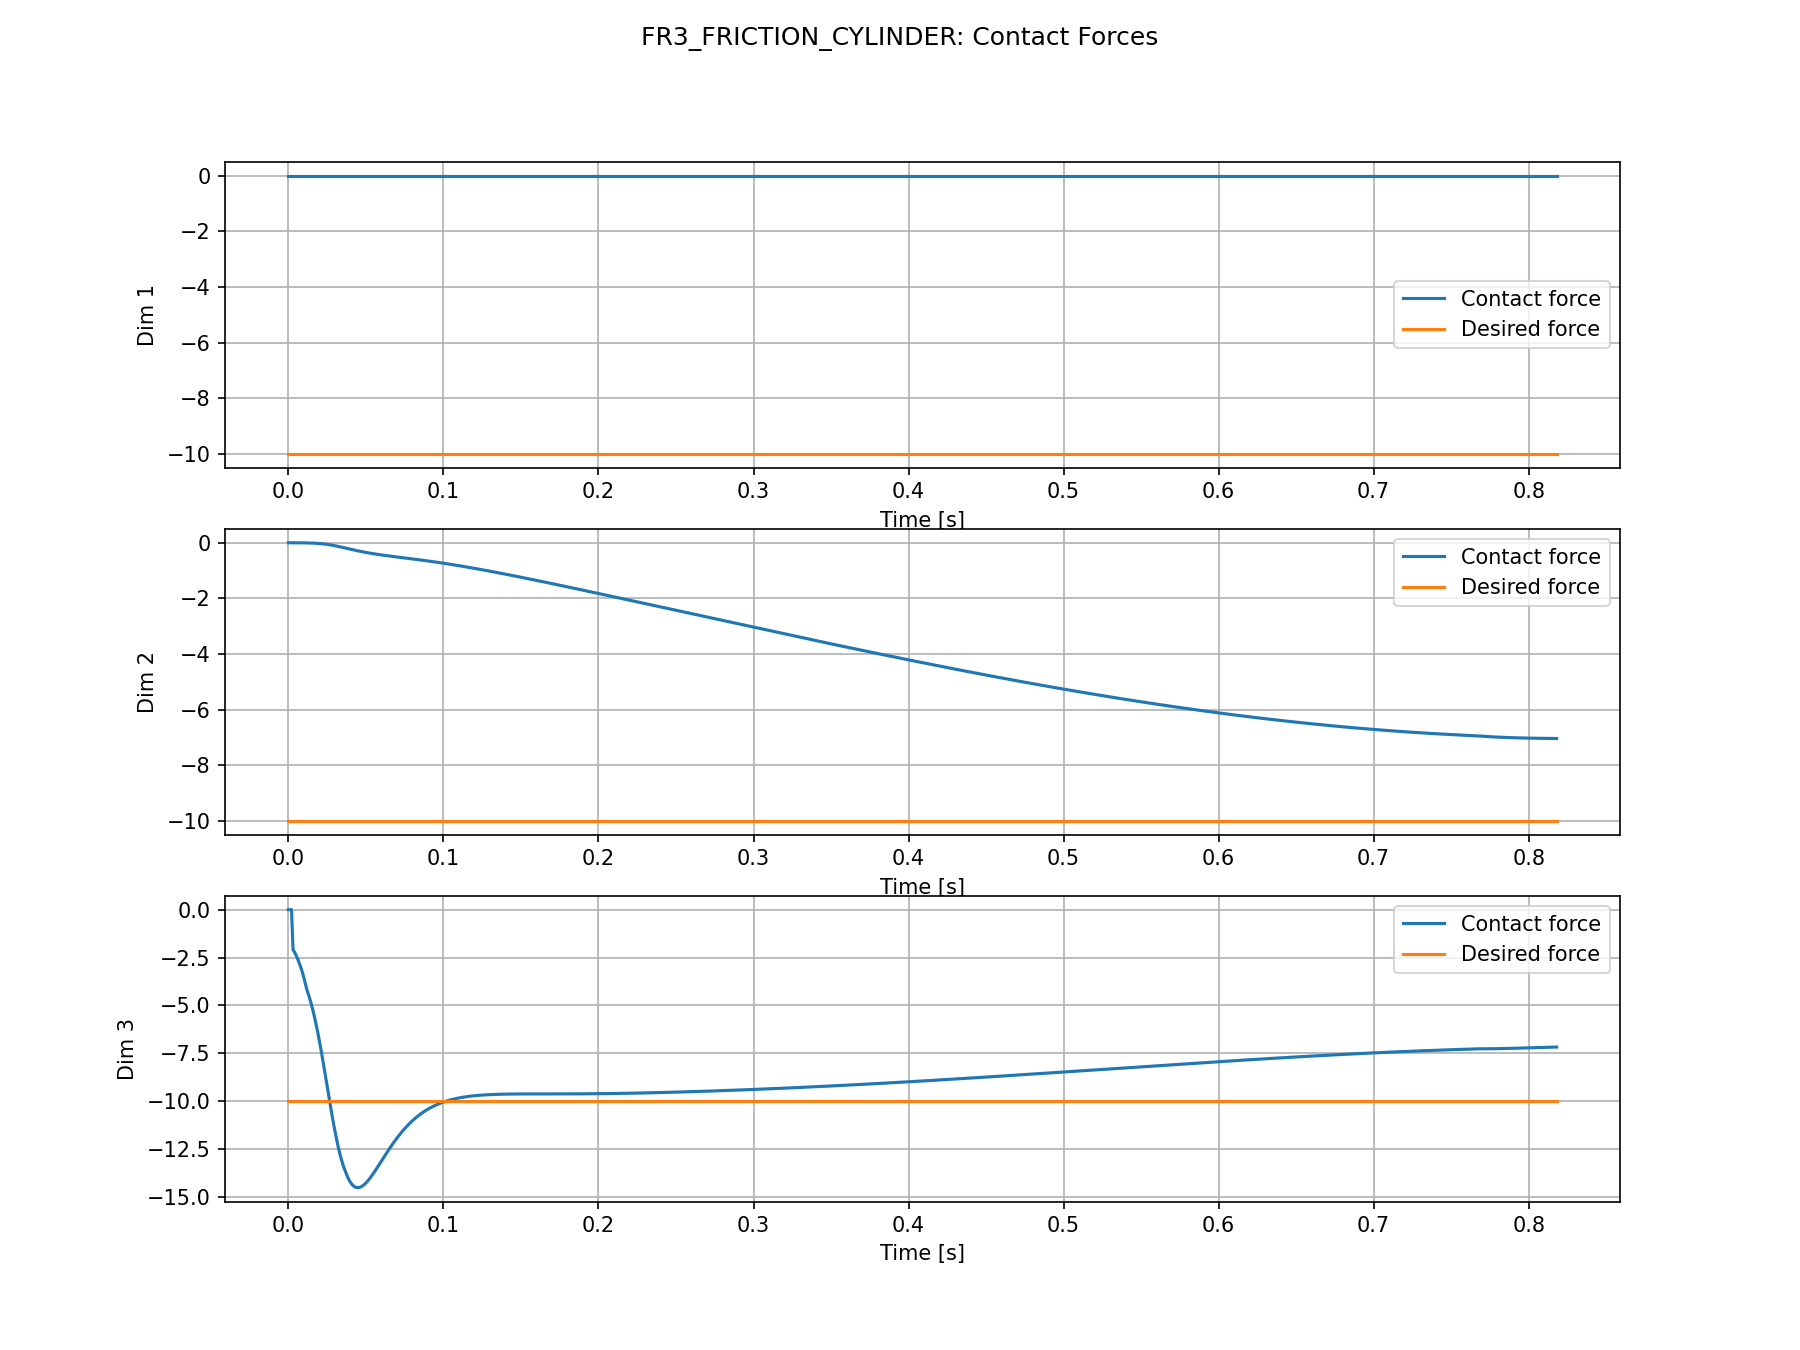
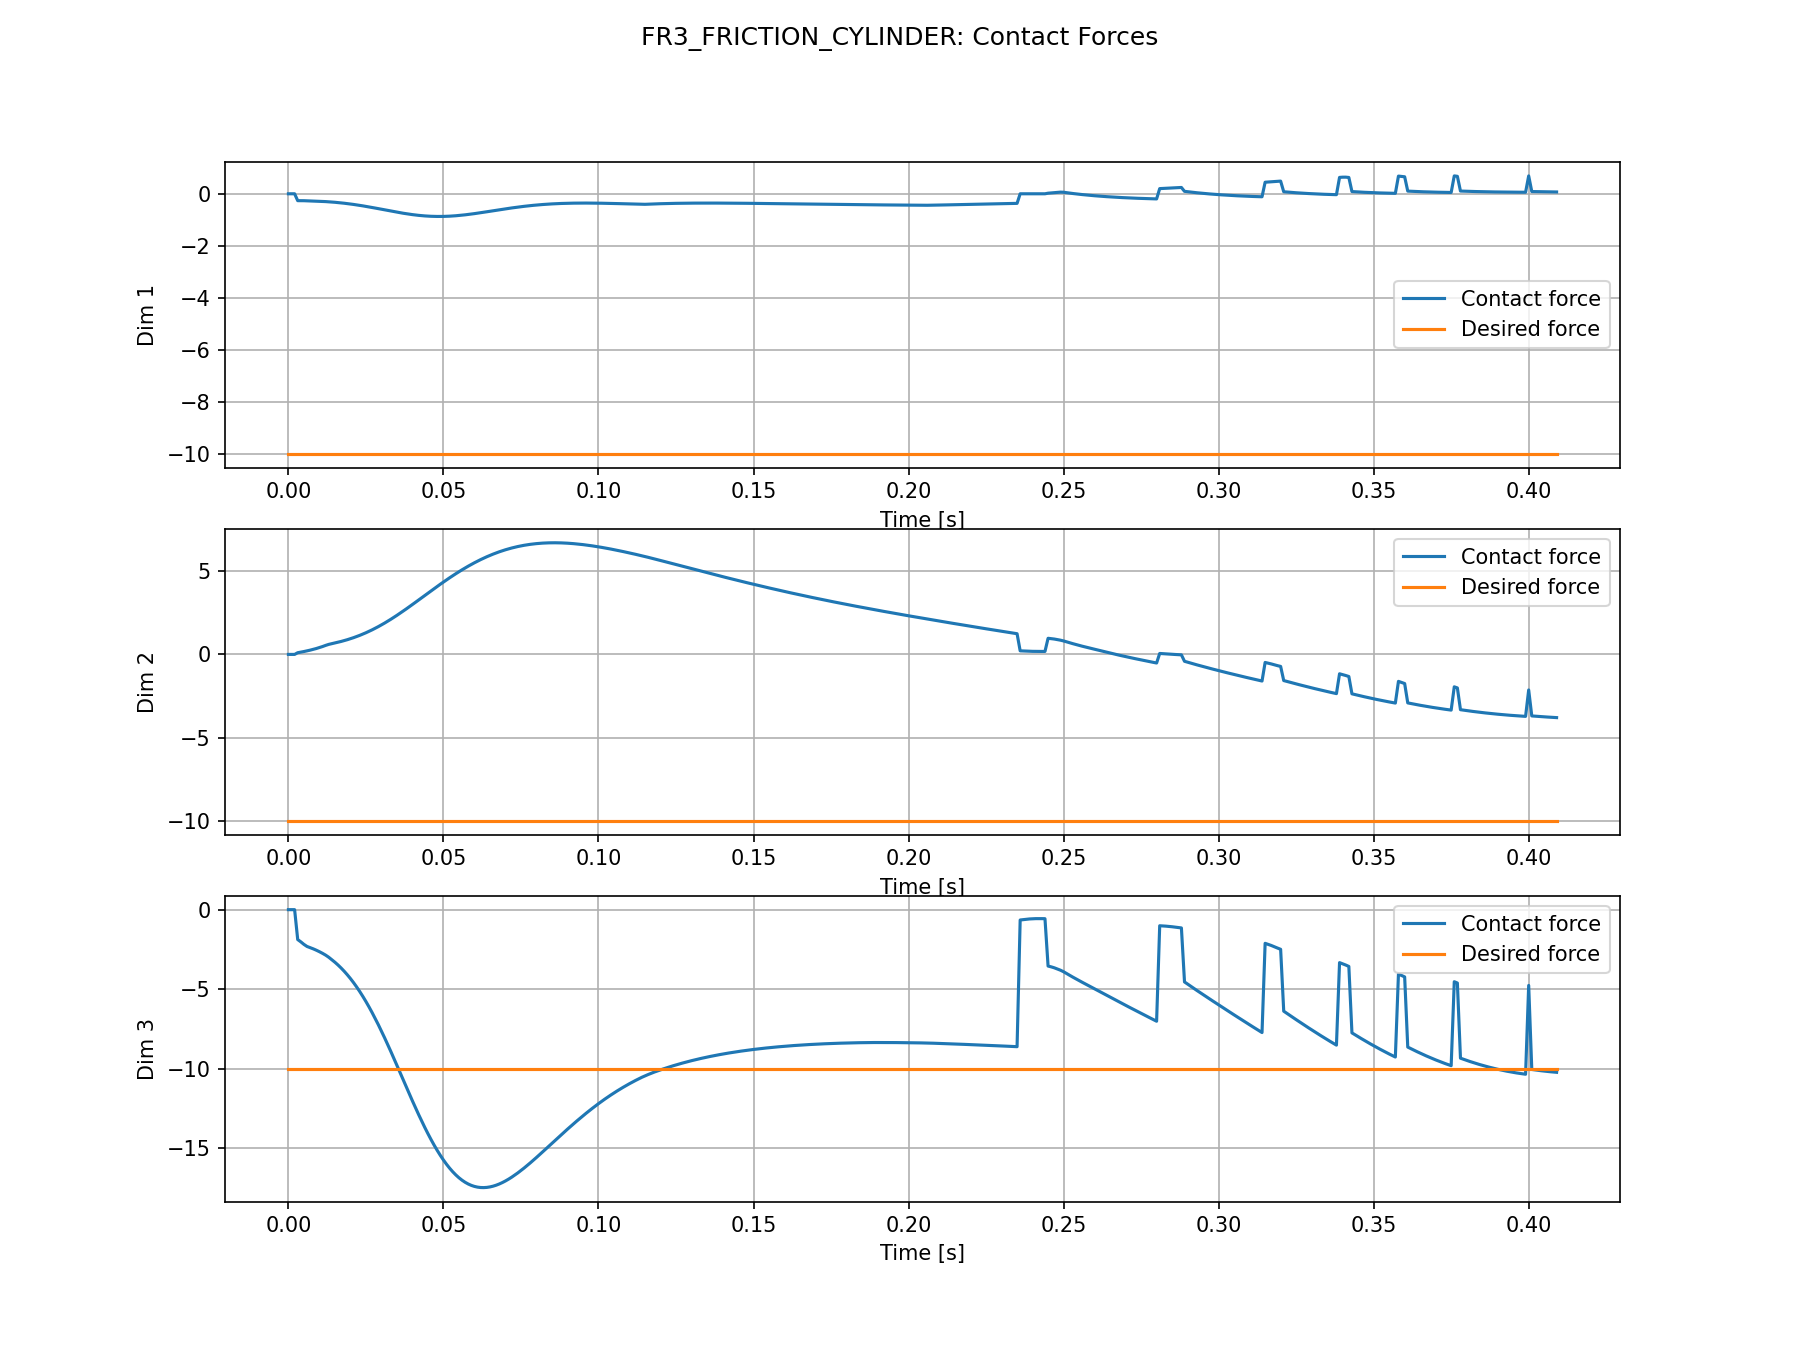
add cylinder compensation comparison

diff --git a/cylinder_experiments/compensation_comparison/plot_comparison.py b/cylinder_experiments/compensation_comparison/plot_comparison.py
@@ -1,0 +1,132 @@
+"""
+Compensation Term Ablation — Cylinder Surface Plot
+===================================================
+Reads .npz files produced by run_experiments.py and generates a signed
+force-error comparison plot (normal force projected onto cylinder surface).
+
+Usage:
+    python cylinder_experiments/compensation_comparison/plot_comparison.py \\
+        --data-dir cylinder_experiments/compensation_comparison/data/fr3_friction_cylinder \\
+        --plot-dir cylinder_experiments/compensation_comparison/plots/fr3_friction_cylinder
+"""
+import argparse
+import os
+
+import matplotlib.pyplot as plt
+import numpy as np
+
+try:
+    from tueplots import bundles
+    plt.rcParams.update(bundles.icml2024(usetex=False))
+except ImportError:
+    pass
+
+plt.rcParams.update({
+    "font.size": 10,
+    "axes.labelsize": 8,
+    "xtick.labelsize": 8,
+    "ytick.labelsize": 8,
+    "legend.fontsize": 8,
+})
+
+CONFIGS = [
+    {
+        "label":     "No contact force compensation",
+        "suffix":    "_no_contact",
+        "color":     "tab:orange",
+        "linestyle": "-",
+        "linewidth": 1.2,
+        "zorder":    2,
+    },
+    {
+        "label":     "No velocity term",
+        "suffix":    "_no_vel",
+        "color":     "tab:green",
+        "linestyle": "-",
+        "linewidth": 1.2,
+        "zorder":    2,
+    },
+    {
+        "label":     "No control force compensation",
+        "suffix":    "_no_ctrl",
+        "color":     "tab:red",
+        "linestyle": "-",
+        "linewidth": 1.2,
+        "zorder":    2,
+    },
+    {
+        "label":     "All compensations ON",
+        "suffix":    "_all",
+        "color":     "tab:blue",
+        "linestyle": "--",
+        "linewidth": 1.8,
+        "zorder":    3,
+    },
+]
+
+DT = 0.001
+
+
+def parse_args():
+    parser = argparse.ArgumentParser(
+        description="Plot cylinder force error comparison from saved .npz data"
+    )
+    parser.add_argument("--data-dir", required=True,
+                        help="Directory containing .npz data files")
+    parser.add_argument("--plot-dir", required=True,
+                        help="Directory to save the output plot")
+    parser.add_argument("--skip-seconds", type=float, default=1.0,
+                        help="Seconds to skip when computing avg/max |error|")
+    parser.add_argument("--plot-duration", type=float, default=None,
+                        help="Seconds of data to plot (default: all)")
+    return parser.parse_args()
+
+
+def main():
+    args = parse_args()
+    os.makedirs(args.plot_dir, exist_ok=True)
+
+    skip        = int(args.skip_seconds / DT)
+    max_samples = int(args.plot_duration / DT) if args.plot_duration else None
+
+    print(f"\n{'Config':<35s}  {'Avg |err| (N)':>14}  {'Max |err| (N)':>14}")
+    print("-" * 67)
+
+    fig, ax = plt.subplots()
+
+    for cfg in CONFIGS:
+        fpath = os.path.join(args.data_dir, f"data_0.0{cfg['suffix']}.npz")
+        if not os.path.exists(fpath):
+            print(f"[WARN] Missing {fpath} — skipping {cfg['label']}")
+            continue
+
+        d = np.load(fpath)
+        force_error = d["force_error"]
+        if max_samples is not None:
+            force_error = force_error[:max_samples]
+        t = np.arange(len(force_error)) * DT
+        n = len(force_error)
+        fe_sk   = force_error[skip:] if n > skip else force_error
+        avg_abs = np.mean(np.abs(fe_sk))
+        max_abs = np.max(np.abs(fe_sk))
+        print(f"{cfg['label']:<35s}  {avg_abs:>14.3f}  {max_abs:>14.3f}")
+
+        ax.plot(t, force_error,
+                color=cfg["color"], linestyle=cfg["linestyle"],
+                linewidth=cfg["linewidth"], zorder=cfg["zorder"],
+                label=cfg["label"])
+
+    print()
+    ax.axhline(0, color="black", linestyle="--", linewidth=0.8)
+    ax.set_xlabel("Time (s)")
+    ax.set_ylabel("Normal Force Error (N)")
+    ax.set_title("Cylinder Surface — Compensation Ablation")
+    ax.legend(loc="upper right")
+
+    out_path = os.path.join(args.plot_dir, "compensation_comparison.png")
+    fig.savefig(out_path, dpi=300)
+    print(f"[PLOT] Saved to: {out_path}")
+
+
+if __name__ == "__main__":
+    main()

diff --git a/cylinder_experiments/compensation_comparison/run_experiments.py b/cylinder_experiments/compensation_comparison/run_experiments.py
@@ -1,0 +1,85 @@
+"""
+Compensation Term Ablation — Cylinder Surface Data Collection
+=============================================================
+Runs run_approach_then_hybrid_mujoco.py four times (each time with one
+compensation term disabled) for the cylinder surface case.
+
+Usage:
+    python cylinder_experiments/compensation_comparison/run_experiments.py \\
+        --headless \\
+        --data-dir cylinder_experiments/compensation_comparison/data/fr3_friction_cylinder
+"""
+import argparse
+import os
+import subprocess
+import sys
+
+CONFIGS = [
+    {"label": "No contact force compensation", "flags": ["--no-contact-force-compensation"]},
+    {"label": "No velocity term",              "flags": ["--no-velocity-term"]},
+    {"label": "No control force compensation", "flags": ["--no-control-force-compensation"]},
+    {"label": "All compensations ON",          "flags": []},
+]
+
+RUNNER = os.path.join(
+    os.path.dirname(os.path.abspath(__file__)), "..", "..", "run_approach_then_hybrid_mujoco.py"
+)
+
+
+def parse_args():
+    parser = argparse.ArgumentParser(
+        description="Run 4 compensation ablation configs on cylinder surface and save .npz data"
+    )
+    parser.add_argument("--robot", default="fr3_friction",
+                        choices=["fr3", "kuka", "panda", "fr3_friction",
+                                 "fr3_jointf", "fr3_jointf_surff"])
+    parser.add_argument("--approach-duration", type=float, default=20.0)
+    parser.add_argument("--circle-duration",   type=float, default=10.0)
+    parser.add_argument("--angular-speed",     type=float, default=3.2)
+    parser.add_argument("--trajectory",        type=int,   default=1, choices=[1, 2])
+    parser.add_argument("--force-control-method", default="paper",
+                        choices=["paper", "pd", "feedforward"])
+    parser.add_argument("--skip-seconds", type=float, default=1.0)
+    parser.add_argument("--headless", action="store_true")
+    parser.add_argument("--data-dir", required=True,
+                        help="Directory to save .npz data files")
+    return parser.parse_args()
+
+
+def build_cmd(args, extra_flags):
+    cmd = [
+        sys.executable, RUNNER,
+        "--robot",                args.robot,
+        "--approach-duration",    str(args.approach_duration),
+        "--circle-duration",      str(args.circle_duration),
+        "--angular-speed",        str(args.angular_speed),
+        "--trajectory",           str(args.trajectory),
+        "--force-control-method", args.force_control_method,
+        "--skip-seconds",         str(args.skip_seconds),
+        "--save-data",
+        "--data-dir",             os.path.abspath(args.data_dir),
+        "--multiplier",           "0.0",
+        "--cylinder",
+    ]
+    if args.headless:
+        cmd.append("--headless")
+    cmd.extend(extra_flags)
+    return cmd
+
+
+def main():
+    args = parse_args()
+    os.makedirs(args.data_dir, exist_ok=True)
+
+    for cfg in CONFIGS:
+        print(f"\n{'='*60}")
+        print(f"Running: {cfg['label']}")
+        print(f"{'='*60}")
+        subprocess.run(build_cmd(args, cfg["flags"]), check=True)
+        print(f"[DONE] {cfg['label']}")
+
+    print(f"\n[INFO] All data saved to: {os.path.abspath(args.data_dir)}")
+
+
+if __name__ == "__main__":
+    main()

diff --git a/mujoco_robot_interface.py b/mujoco_robot_interface.py
@@ -171,18 +171,25 @@ class MujocoRobotInterface:
             return current_force_local
 
         if self.cylinder_center is not None and self.cylinder_axis is not None:
-            # Compute outward normal from EE position relative to cylinder axis.
-            # Returns -normal * F_normal so that pressing gives a negative value
-            # when projected onto S_f = [outward_normal, 0, 0, 0]^T.
-            ee_pos = self.data.site(self.site_id).xpos.copy()
-            radial = ee_pos - self.cylinder_center
-            radial -= np.dot(radial, self.cylinder_axis) * self.cylinder_axis
-            norm = np.linalg.norm(radial)
-            if norm < 1e-6:
-                return current_force_local
-            outward_normal = radial / norm
-            f_normal = contact_force_local[0]  # repulsive (>= 0)
-            current_force_local[:3] = -outward_normal * f_normal
+            # # Compute outward normal from EE position relative to cylinder axis.
+            # # Returns -normal * F_normal so that pressing gives a negative value
+            # # when projected onto S_f = [outward_normal, 0, 0, 0]^T.
+            # ee_pos = self.data.site(self.site_id).xpos.copy()
+            # radial = ee_pos - self.cylinder_center
+            # radial -= np.dot(radial, self.cylinder_axis) * self.cylinder_axis
+            # norm = np.linalg.norm(radial)
+            # if norm < 1e-6:
+            #     return current_force_local
+            # outward_normal = radial / norm
+            # f_normal = contact_force_local[0]  # repulsive (>= 0)
+            # current_force_local[:3] = -outward_normal * f_normal
+            
+            # contact.frame rows are [n̂, t̂₁, t̂₂] in world frame;
+            # R.T maps contact-frame scalars → world-frame vector.
+            # Negation preserves the convention: pressing → negative F_ext_phi.
+            R = contact.frame.reshape(3, 3)
+            current_force_local[:3] = (R.T @ contact_force_local[:3])
+            current_force_local[3:] = contact_force_local[3:]
         else:
             # Original slope convention: contact x (normal) maps to -local_z.
             contact_rot = np.array([[0.0, 0.0, 1.0], [0.0, 1.0, 0.0], [-1.0, 0.0, 0.0]])

diff --git a/run_approach_then_hybrid_mujoco.py b/run_approach_then_hybrid_mujoco.py
@@ -610,7 +610,7 @@ def main() -> None:
                 plot_ee_positions(hybrid_controller, common_config.dt, plot_dir=plot_dir)
                 # plot_control_torques(hybrid_controller, common_config.dt, plot_dir=plot_dir)
                 plot_hybrid_results(hybrid_controller, common_config.dt, robot_cfg.name, plot_dir=plot_dir)
-                plot_force_error_z(hybrid_controller, common_config.dt, robot_cfg.name, plot_dir=plot_dir)
+                # plot_force_error_z(hybrid_controller, common_config.dt, robot_cfg.name, plot_dir=plot_dir) # only works for flat surface with Z normal
             else:
                 # plot_joint_torques(approach_controller, common_config.dt, plot_dir="mj_ctrl/plots/sim/approach")
                 # plot_ee_positions(approach_controller, common_config.dt, plot_dir="mj_ctrl/plots/sim/approach")

diff --git a/utils_plot.py b/utils_plot.py
@@ -204,7 +204,7 @@ def plot_hybrid_results(
             axes[i].plot(t, control_comp[:, i], label='Control Force Compensation', linewidth=2)
             axes[i].plot(t, contact_comp[:, i], label='Contact Force Compensation', linewidth=2)
             axes[i].plot(t, velocity_term[:, i], label='Velocity Term', linewidth=2)
-            axes[i].plot(t, f_ctrl_constraint[:, i], label='F_ctrl Constraint', linewidth=2)
+            # axes[i].plot(t, f_ctrl_constraint[:, i], label='F_ctrl Constraint', linewidth=2)
             axes[i].set_ylabel(f'Force Dim {i + 1} (N)')
             axes[i].legend(loc='best')
             axes[i].grid(True, alpha=0.3)
